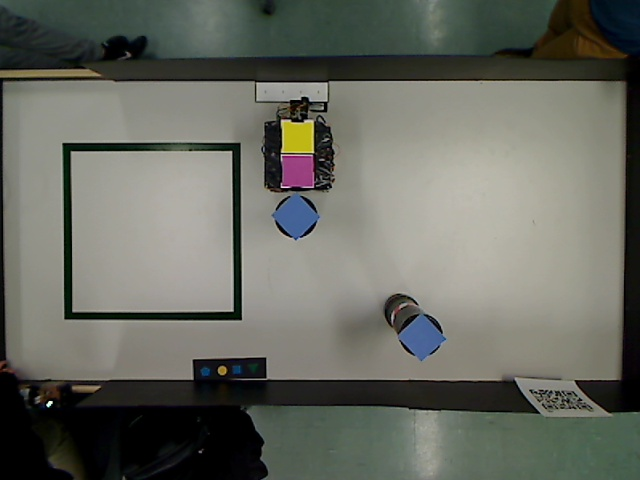
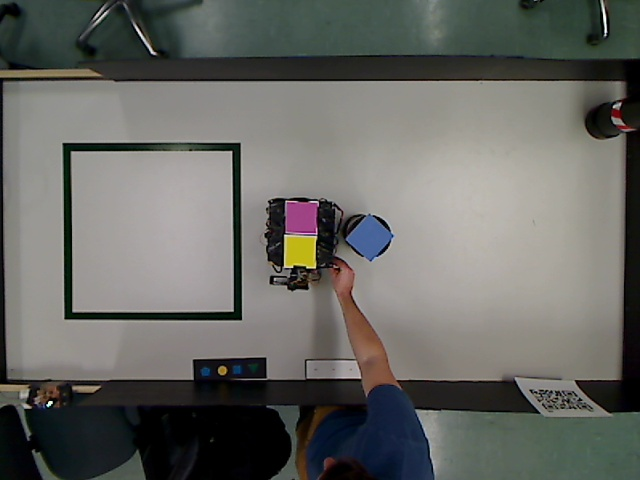
obstacle stuck strat

diff --git a/domain/RobotMover.py b/domain/RobotMover.py
@@ -1,4 +1,5 @@
 import math
+import cv2
 from domain.image_analysis.Cardinal import *
 
 OFFSET_Y_CAM_EMBARKED = 140
@@ -6,9 +7,10 @@ OFFSET_X_CAM_EMBARKED = -30
 
 
 class RobotMover:
-    def __init__(self, world_converter, embarked_converter):
+    def __init__(self, world_converter, embarked_converter, cap):
         self.world_converter = world_converter
         self.embarked_converter = embarked_converter
+        self.cap = cap
 
     def move_robot_from_embarked_referential(self, x, y, cardinal_string,
                                              image_width, image_height):
@@ -59,11 +61,10 @@ class RobotMover:
             return move
 
         if robot_point[0] > closest_point[0] and x_diff > y_diff:
-            if robot_point[0] < closest_point[0]:
-                move = (50, 0)
+            move = (50, 0)
 
-                move = self.__change_referential(move, cardinal_str)
-                return move
+            move = self.__change_referential(move, cardinal_str)
+            return move
 
         if robot_point[1] > closest_point[1] and y_diff > x_diff:
             move = (0, -50)
@@ -109,17 +110,17 @@ class RobotMover:
             return (point[0] * -1, point[1] * -1)
 
         if cardinal_str == SOUTH():
-            return (point[1], point[0] * -1)
+            return (point[1] * -1, point[0])
 
     def __find_closest_obstacle_from_robot(self, robot_point, obstacle_array):
         min_distance = 10000000000
-        closest_pt = ()
+        closest_pt = None
 
         for point in obstacle_array:
             distance = math.sqrt((robot_point[0] - point[0])**2 +
                                  (robot_point[1] - point[1])**2)
-
             if distance < min_distance:
+                min_distance = distance
                 closest_pt = point
 
         return closest_pt

diff --git a/sequence/Sequence.py b/sequence/Sequence.py
@@ -63,7 +63,8 @@ class Sequence:
         self.world_cam_pixel_to_xy_converter = world_cam_pixel_to_xy_converter
         self.robot_cam_pixel_to_xy_converter = robot_cam_pixel_to_xy_converter
         self.robot_mover = RobotMover(world_cam_pixel_to_xy_converter,
-                                      robot_cam_pixel_to_xy_converter)
+                                      robot_cam_pixel_to_xy_converter,
+                                      image_taker)
         self.real_path = None
         self.starting_point = None
         self.smooth_path = None

diff --git a/domain/ObstacleDetector.py b/domain/ObstacleDetector.py
@@ -1,14 +1,17 @@
 import cv2
 import numpy as np
 
+from domain.image_analysis.ImageToGridConverter import LENGTH, HEIGHT
+
+
 BLUE_HSV_LOW = np.array([100, 100, 120])
 BLUE_HSV_HIGH = hsv_high = np.array([140, 255, 255])
 
 
 class ObstacleDetector:
-
     def __init__(self, img):
         self.image = img.copy()
+        self.image = cv2.resize(self.image, (LENGTH, HEIGHT))
 
     def find_center_of_obstacle(self):
         hsv = cv2.cvtColor(self.image, cv2.COLOR_BGR2HSV)

diff --git a/util/sendCommands.py b/util/sendCommands.py
@@ -33,6 +33,9 @@ while True:
     if com == "up_bras":
         comm_pi.moveArm('2000')
 
+    if com == "test_bras":
+        comm_pi.moveArm('4000')
+
     if com == "redOn":
         comm_pi.redLightOn()
 
